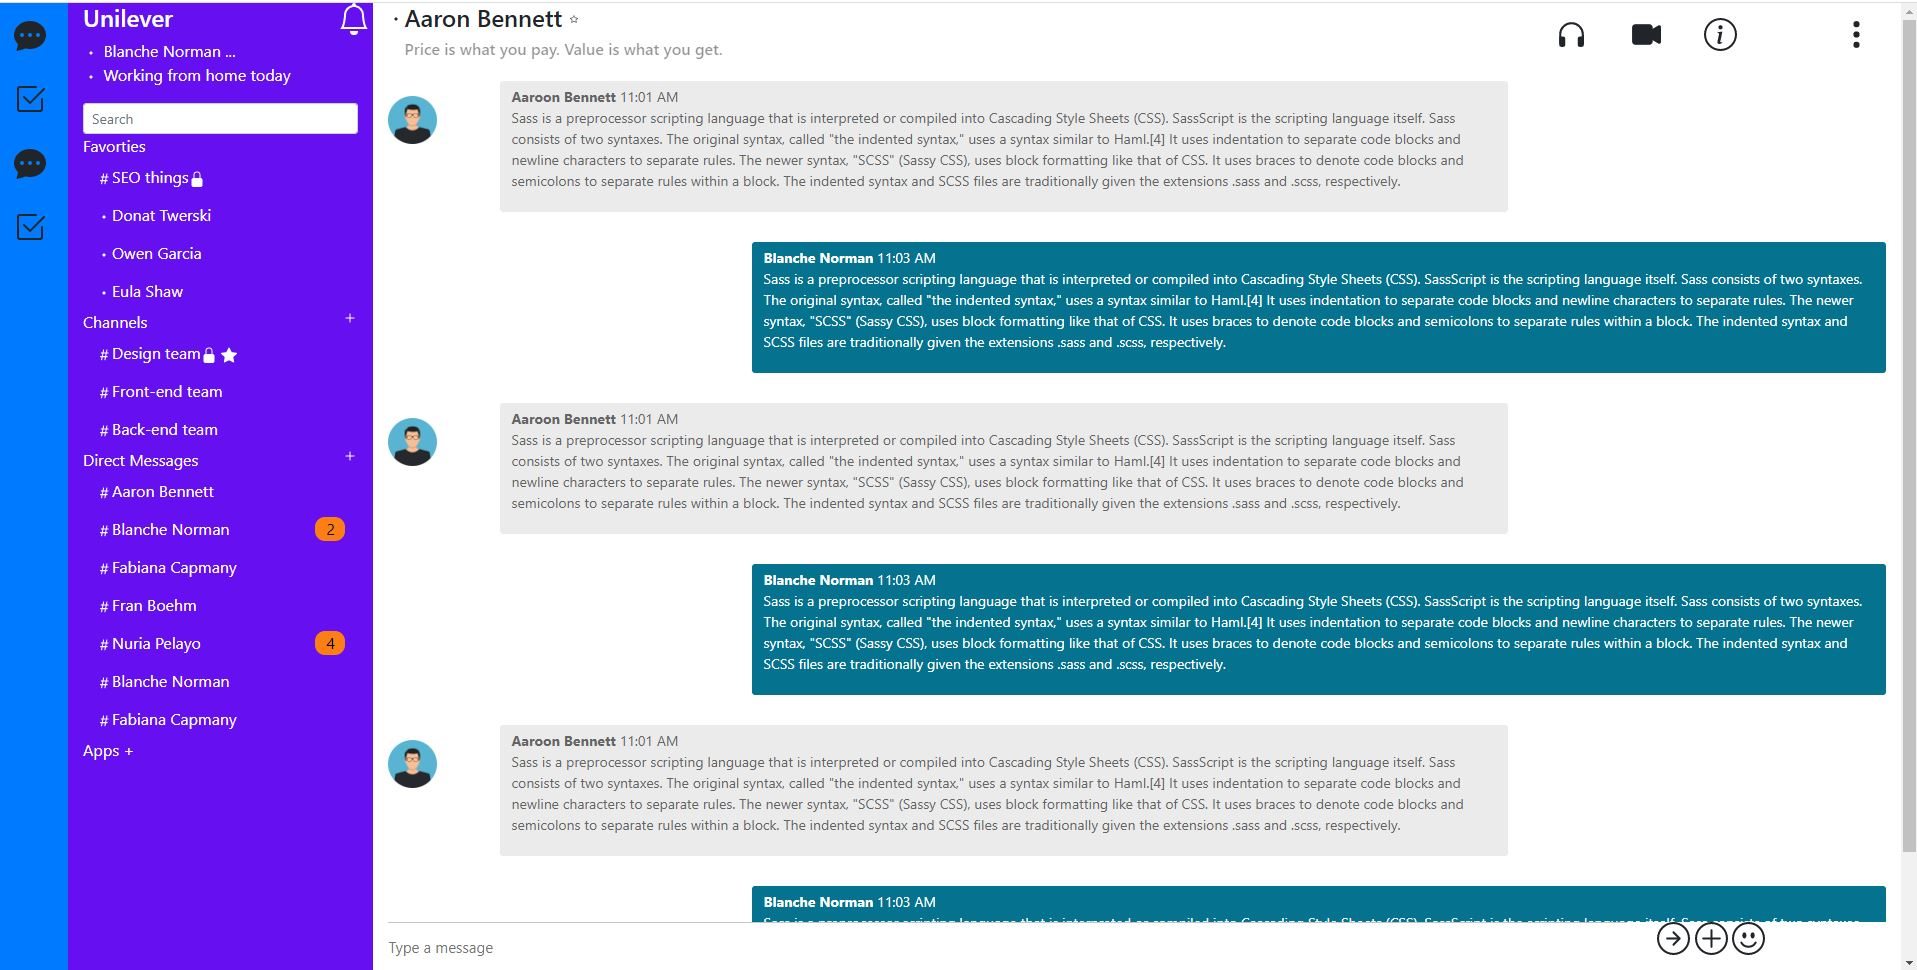
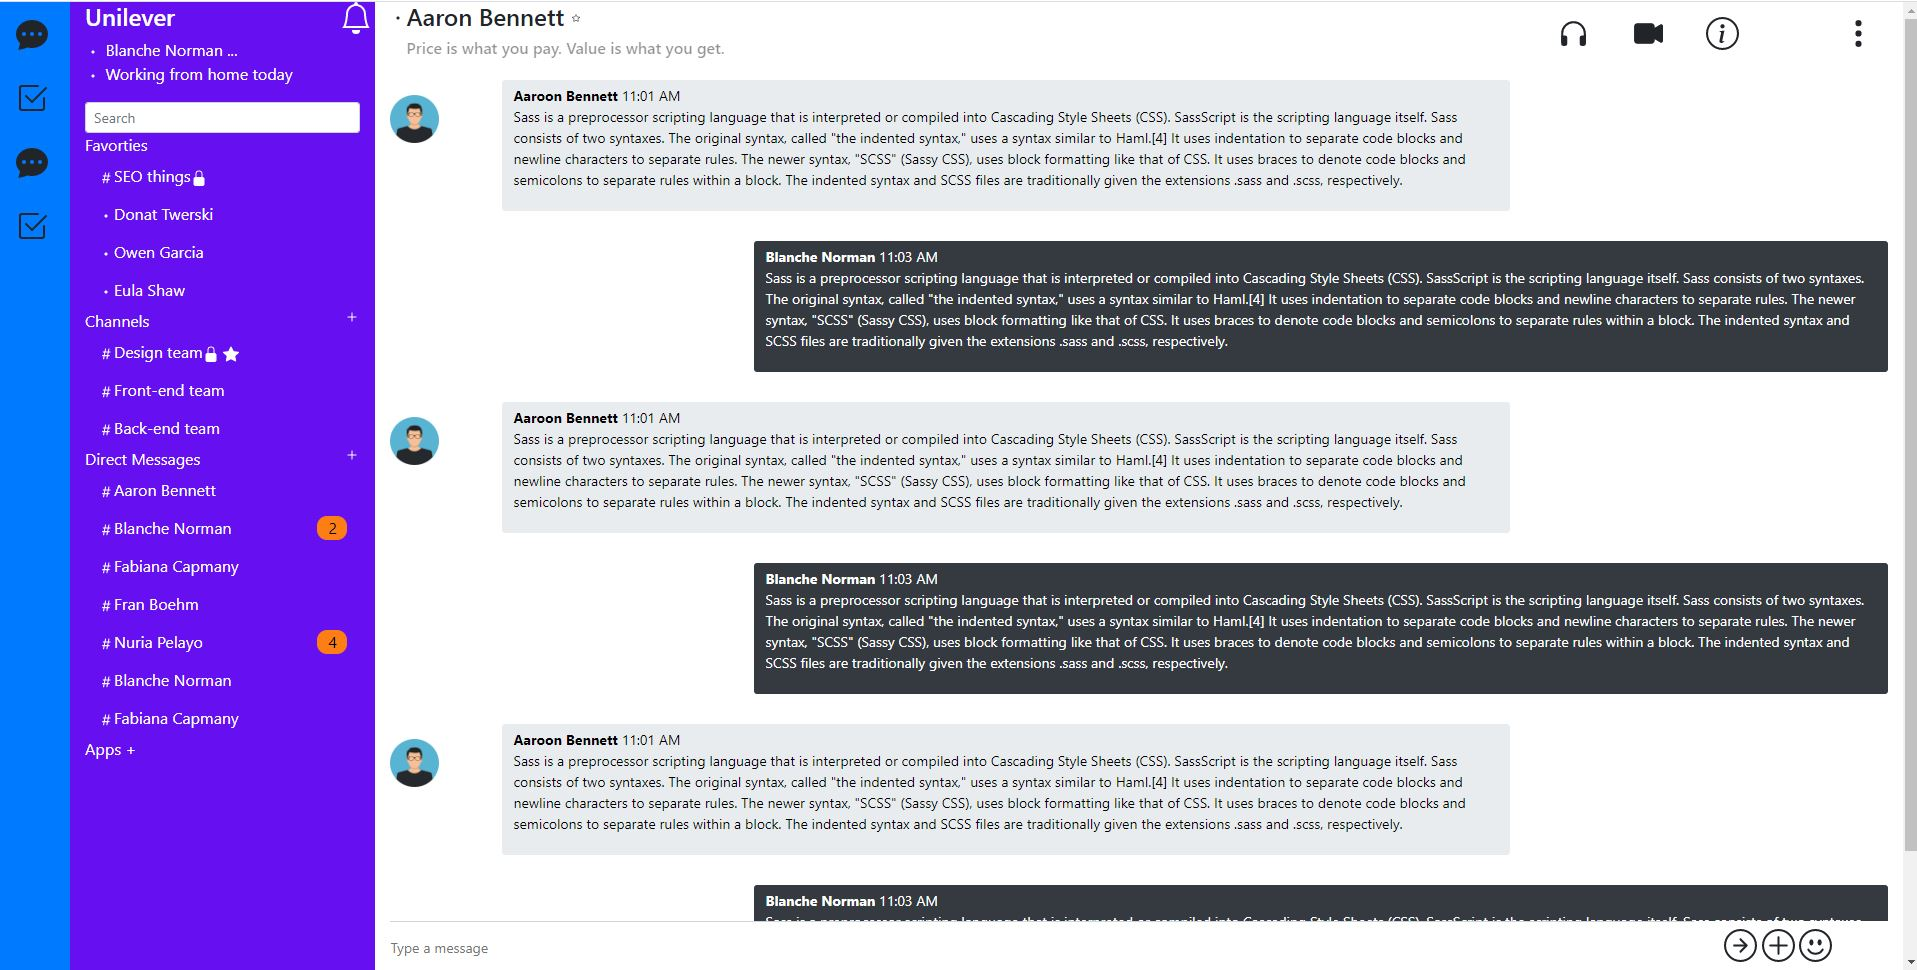
feat(chat-app): Minor fixes

diff --git a/app.sass b/app.sass
@@ -1,6 +1,6 @@
 @import "node_modules/bootstrap/scss/bootstrap"
 
-// Side Nav bar 
+// Side Nav bar
 
 .other-page-links
   background-color: $blue
@@ -10,15 +10,15 @@
 
 .other-page-link
   margin: 16px
-  
+ 
 .base-messaging-pane
   margin-left: 70px
   height: 100%
-  
+ 
 .messaging-tab
   margin: 0
-  height: 100% 
-  
+  height: 100%
+ 
 // Favorities
 .fav-item
   width: 100%
@@ -30,14 +30,14 @@
   background-color: $indigo
   color: $white
   transition: none
-  
+ 
 .fav-item:hover
   background-color: $blue
   color: $white
-  
+ 
 .add-more-people
   float: right
-  
+ 
 .active-msg-count
   float: right
   background-color: $white
@@ -50,77 +50,72 @@
 .side-bar
   background-color: $indigo
   color: $white
-  
+ 
 .search-icon
   position: absolute
   right: 0
   padding: 8px 27px
-  
+ 
 .flex-container
   display: flex
-  
+ 
 // Chat messaging pane
 .display-picture
   margin: 30px 0 0 0
   width: 50%
 
-.status-msg 
+.status-msg
    opacity:0.5
    
 %past-message
   border-radius: 3px
-  font-size: 14px
+  font-size: $font-size-sm
   margin: 15px 0 15px 0
   padding: 5px 10px 5px 12px
   width: 100%
 
-.received-with-msg 
+.received-with-msg
   @extend %past-message
-  background: #ebebeb none repeat scroll 0 0
-  color: #646464
+  background: $gray-200 none repeat scroll 0 0
+  color: $black
 
 .sent-with-msg
   @extend %past-message
-  background: #05728f none repeat scroll 0 0
-  color:#fff
+  background: $gray-800 none repeat scroll 0 0
+  color: $white
 
-.compose-new-msg 
+.compose-new-msg
   input
-    background: rgba(0, 0, 0, 0) none repeat scroll 0 0
+    background: $white none repeat scroll 0 0
     border: medium none
-    color: #4c4c4c
-    font-size: 15px
-    min-height: 48px
+    color: $gray-700
+    font-size: $font-size-sm
+    min-height: 50px
     width: 100%
 
-.compose-new-msg 
-  border-top: 1px solid #c4c4c4
+.compose-new-msg
+  border-top: 1px solid $gray-400
   position: relative
 
 .submit-message
   height: 33px
   top: 11px
   width: 33px
-  
+ 
 .chat-window
   margin: 0 0 60px 0
-  
+ 
 .footer
    position: fixed
    bottom: 0
-   width: 80%
+   width: 85%
    height: 50px
    background: $white
    overflow: auto
    
-// Base page related   
+// Base page related  
 .base-page
   height: 100vh
 
 .settings-menu
   float: right
-   
-
-
-
-

diff --git a/index.html b/index.html
@@ -336,7 +336,7 @@
 								</div>
 
 							</div>
-							<div class="col-md-2">
+							<div class="col-md-2 mt-2">
 								<svg class="bi bi-arrow-right-circle submit-message" width="1em" height="1em" viewBox="0 0 16 16" fill="currentColor" xmlns="http://www.w3.org/2000/svg">
 									<path fill-rule="evenodd" d="M8 15A7 7 0 1 0 8 1a7 7 0 0 0 0 14zm0 1A8 8 0 1 0 8 0a8 8 0 0 0 0 16z"/>
 									<path fill-rule="evenodd" d="M7.646 11.354a.5.5 0 0 1 0-.708L10.293 8 7.646 5.354a.5.5 0 1 1 .708-.708l3 3a.5.5 0 0 1 0 .708l-3 3a.5.5 0 0 1-.708 0z"/>
